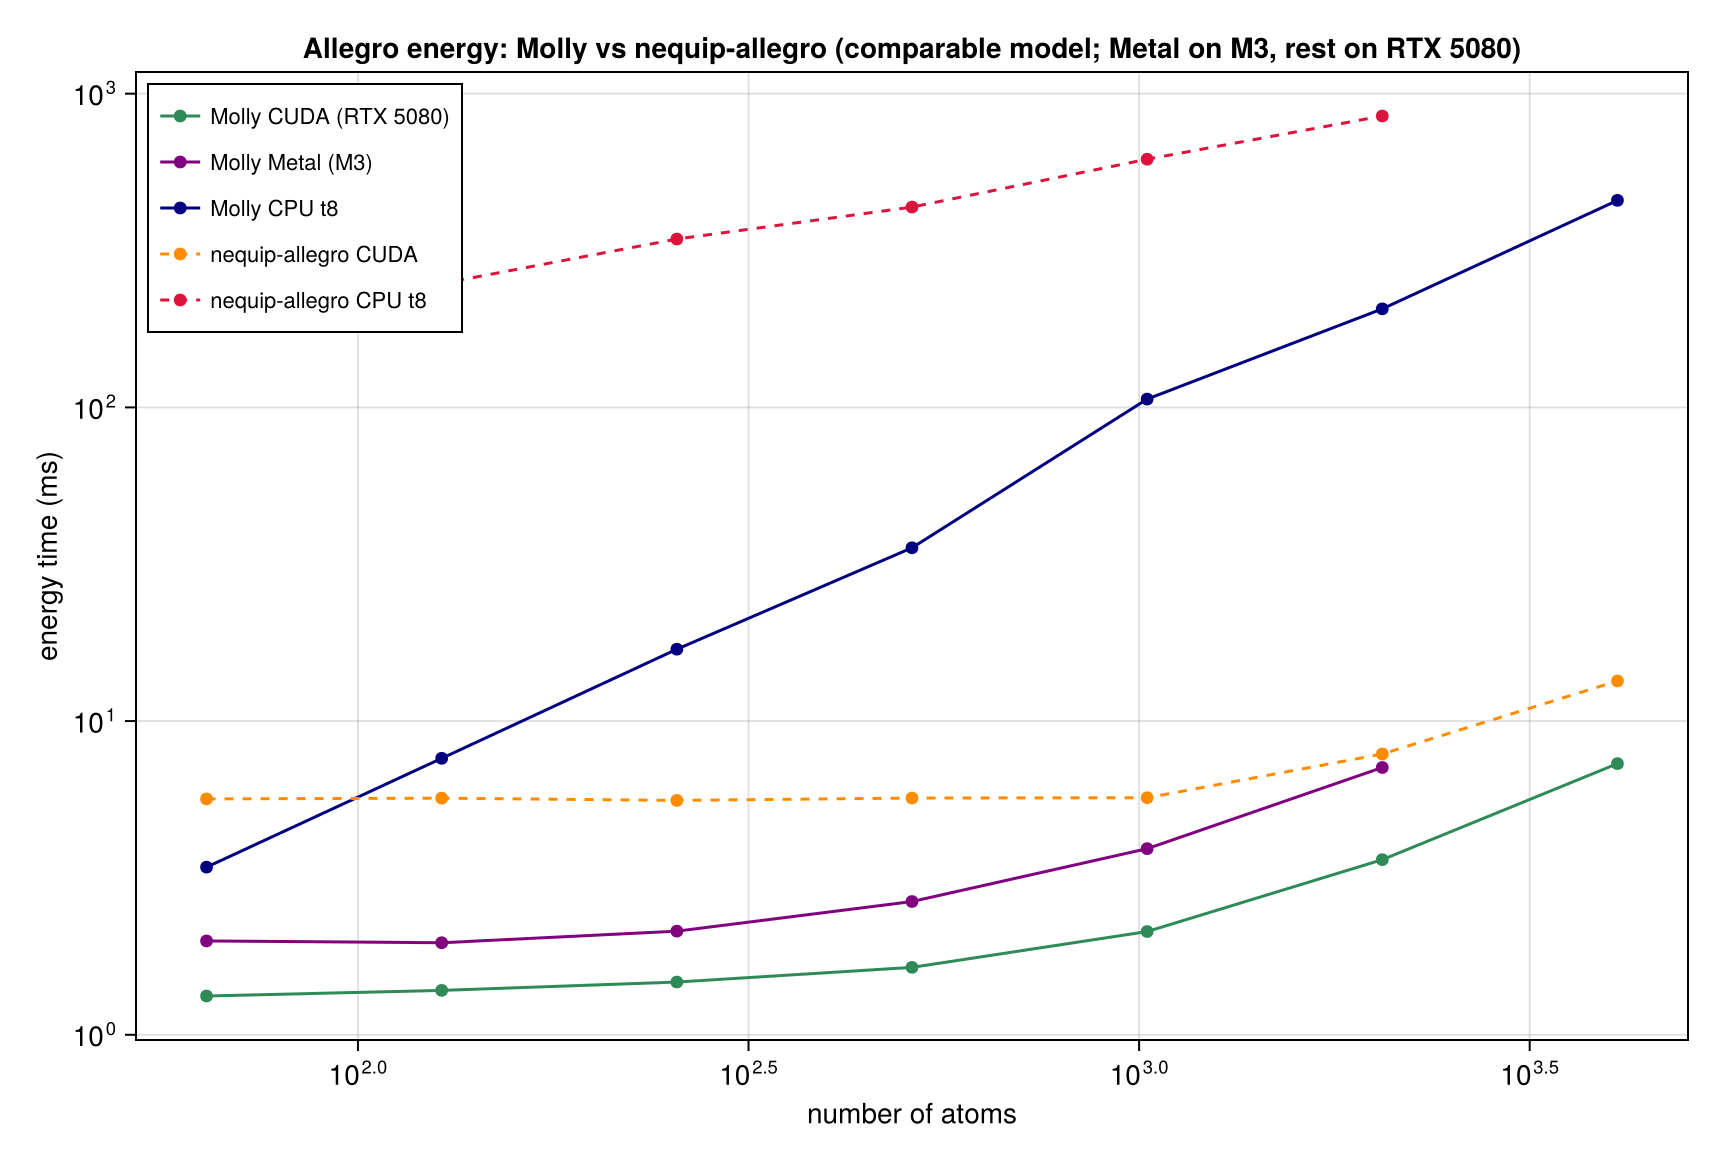
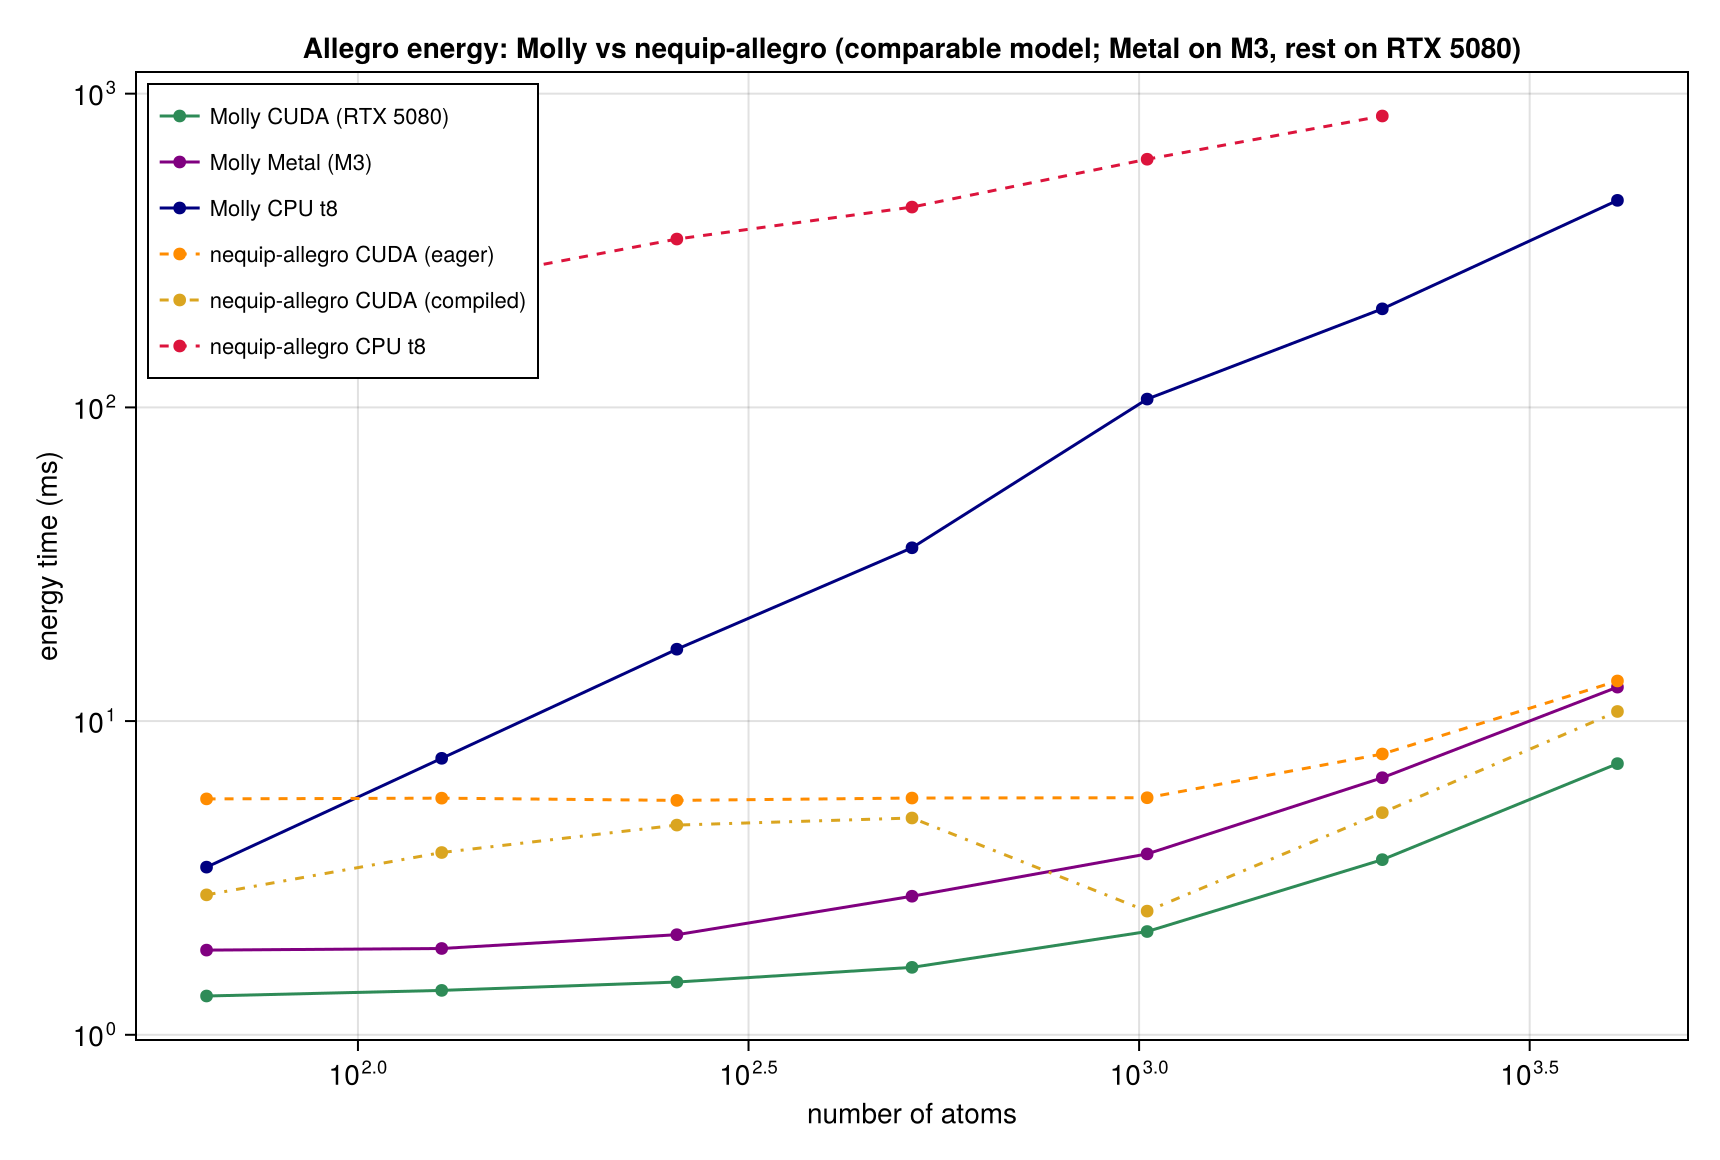
Allegro head-to-head: add torch.compile'd nequip-allegro (fair fast path)
Extend benchmark/allegro_torch_bench.py with ALLEGRO_TORCH_COMPILE (torch.compile
/ inductor), and add the compiled nequip-allegro CUDA series to the figure and
table so the comparison is fair against nequip's fast deployment path, not just
eager.

Molly's native CUDA energy is ~1.5-2x faster than even compiled nequip-allegro
(and 1.8-4.2x vs eager), and Molly Metal beats both at small N. The compiled
series is noisy (torch.compile recompiles per dynamic shape) but the ordering is
stable. Existing Allegro implementations covered: nequip-allegro across CPU
t1/t8, CUDA eager and CUDA compiled; Metal is Molly-only (nequip needs float64,
unavailable on MPS).

diff --git a/benchmark/allegro_torch_bench.py b/benchmark/allegro_torch_bench.py
@@ -25,7 +25,8 @@ DEVICE = os.environ.get("ALLEGRO_TORCH_DEVICE", "cpu")
 SIZES = [int(x) for x in os.environ.get("ALLEGRO_SIZES", "64,128,256,512,1024,2048,4096").split(",")]
 if DEVICE == "cpu":
     torch.set_num_threads(int(os.environ.get("ALLEGRO_TORCH_THREADS", "1")))
-KEY = "cuda" if DEVICE == "cuda" else f"cpu_t{torch.get_num_threads()}"
+COMPILE = os.environ.get("ALLEGRO_TORCH_COMPILE", "0") == "1"   # torch.compile (inductor) — the fast path
+KEY = ("cuda" if DEVICE == "cuda" else f"cpu_t{torch.get_num_threads()}") + ("_c" if COMPILE else "")
 
 def build_model():
     set_global_state(); torch.manual_seed(0)
@@ -80,7 +81,10 @@ def timeit(f, reps=5, samples=8):
 def main():
     model = build_model()
     energy_net = model.model.func   # inner SequentialGraphNetwork: total_energy without the force backward
-    print(f"nequip-allegro bench | device={DEVICE} key={KEY} | params={sum(p.numel() for p in model.parameters())}")
+    if COMPILE:
+        energy_net = torch.compile(energy_net, dynamic=True)
+        model = torch.compile(model, dynamic=True)
+    print(f"nequip-allegro bench | device={DEVICE} key={KEY} | compile={COMPILE} | params={sum(p.numel() for p in build_model().parameters())}")
     res = {KEY: {}}
     for n in SIZES:
         pos, types = make_system(n)

diff --git a/benchmark/allegro_benchmarks.md b/benchmark/allegro_benchmarks.md
@@ -144,16 +144,20 @@ Allegro of similar size vs the PyTorch reference", not same-weights), and CPU/CU
 `benchmark/allegro_torch_bench.py` (nequip) alongside `benchmark/allegro_cuda_compare.jl` and
 `benchmark/allegro.jl` (Molly), on the same machine.
 
-**Energy, time in ms** (CUDA + CPU-t8 on the RTX 5080 host; Molly Metal on the M3):
+**Energy, time in ms** (CUDA + CPU-t8 on the RTX 5080 host; Molly Metal on the M3). `nequip CUDA`
+is shown both eager and `torch.compile`d (its fast deployment path):
 
-| atoms | Molly CUDA | nequip CUDA | Molly CPU-t8 | nequip CPU-t8 | Molly Metal |
-| :---: | :---: | :---: | :---: | :---: | :---: |
-| 64   | 1.33 | 5.65  | 3.4   | 188 | 1.99 |
-| 256  | 1.47 | 5.59  | 16.9  | 344 | 2.14 |
-| 512  | 1.64 | 5.68  | 35.7  | 435 | 2.66 |
-| 1024 | 2.13 | 5.70  | 106.3 | 618 | 3.92 |
-| 2048 | 3.62 | 7.85  | 206.1 | 849 | 7.11 |
-| 4096 | 7.32 | 13.42 | 457.0 | —   | —    |
+| atoms | Molly CUDA | nequip CUDA (eager) | nequip CUDA (compiled) | Molly Metal | Molly CPU-t8 | nequip CPU-t8 |
+| :---: | :---: | :---: | :---: | :---: | :---: | :---: |
+| 64   | 1.33 | 5.65  | 2.79  | 1.99 | 3.4   | 188 |
+| 256  | 1.47 | 5.59  | 4.66  | 2.14 | 16.9  | 344 |
+| 512  | 1.64 | 5.68  | 4.91  | 2.66 | 35.7  | 435 |
+| 1024 | 2.13 | 5.70  | 2.48  | 3.92 | 106.3 | 618 |
+| 2048 | 3.62 | 7.85  | 5.11  | 7.11 | 206.1 | 849 |
+| 4096 | 7.32 | 13.42 | 10.73 | —    | 457.0 | —   |
+
+(The compiled column is noisy — `torch.compile` with dynamic shapes recompiles per size — but the
+ordering is stable.)
 
 **Forces, time in ms** (Molly analytic vs nequip autograd; CPU on the RTX 5080 host):
 
@@ -169,9 +173,11 @@ Allegro of similar size vs the PyTorch reference", not same-weights), and CPU/CU
 Reading it:
 
 - **Energy: Molly's native kernels win clearly.** Molly's CUDA energy is **1.8×–4.2× faster** than
-  nequip-allegro's and stays sub-10 ms to 4096 atoms, while nequip-allegro is launch-overhead bound
-  (~5.6 ms flat) at small N. On CPU, PyTorch's threading is pathological at these sizes (188 ms at
-  64 atoms on 8 threads); Molly's threaded CPU energy is 10–50× faster.
+  eager nequip-allegro (which is launch-bound at ~5.6 ms flat), and still **~1.5–2× faster than
+  `torch.compile`d nequip-allegro**, the fast deployment path. It stays sub-10 ms to 4096 atoms. On
+  CPU, PyTorch's threading is pathological at these sizes (188 ms at 64 atoms on 8 threads); Molly's
+  threaded CPU energy is 10–50× faster. Molly Metal (Apple M3) also beats eager and compiled nequip
+  CUDA at small N.
 - **Metal is a Molly-only capability.** nequip-allegro requires `float64` (its per-type energy
   shift casts to global float64), and Apple MPS is float32-only — so nequip-allegro **has no Apple
   GPU path at all**, the same situation TorchANI has. Molly's native Metal energy runs where the
